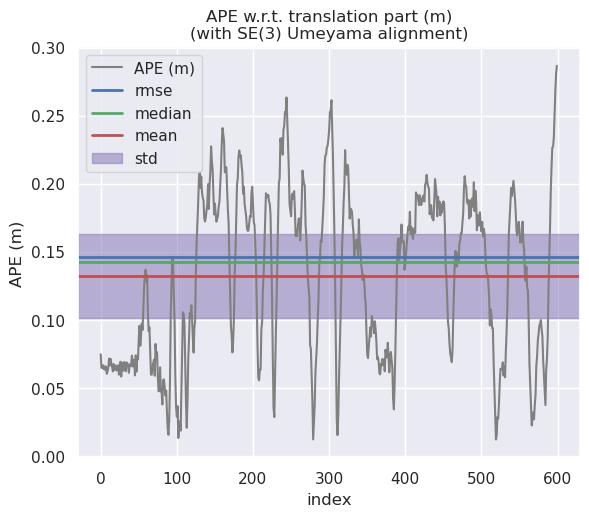
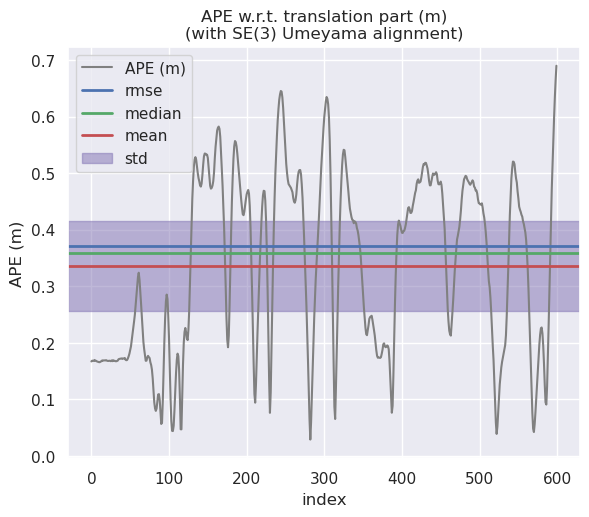
update images

diff --git a/code/enhanced_fast_lio2_ros2/src/fastlio2/launch/fastlio2.launch.py b/code/enhanced_fast_lio2_ros2/src/fastlio2/launch/fastlio2.launch.py
@@ -1,5 +1,5 @@
 import launch
-import launch_ros.actions
+from launch_ros.actions import Node
 from launch.substitutions import PathJoinSubstitution
 from launch_ros.substitutions import FindPackageShare
 
@@ -17,7 +17,7 @@ def generate_launch_description():
 
     return launch.LaunchDescription(
         [
-            launch_ros.actions.Node(
+            Node(
                 package="fastlio2",
                 namespace="fastlio2",
                 executable="lio_node",
@@ -25,7 +25,7 @@ def generate_launch_description():
                 output="screen",
                 parameters=[{"config_path": config_path.perform(launch.LaunchContext())}]
             ),
-            launch_ros.actions.Node(
+            Node(
                 package="rviz2",
                 namespace="fastlio2",
                 executable="rviz2",

diff --git a/code/fast_lio2_ros2/src/fastlio2/launch/lio_launch.py b/code/fast_lio2_ros2/src/fastlio2/launch/lio_launch.py
@@ -1,5 +1,5 @@
 import launch
-import launch_ros.actions
+from launch_ros.actions import Node
 from launch.substitutions import PathJoinSubstitution
 from launch_ros.substitutions import FindPackageShare
 
@@ -17,7 +17,7 @@ def generate_launch_description():
 
     return launch.LaunchDescription(
         [
-            launch_ros.actions.Node(
+            Node(
                 package="fastlio2",
                 namespace="fastlio2",
                 executable="lio_node",
@@ -25,7 +25,7 @@ def generate_launch_description():
                 output="screen",
                 parameters=[{"config_path": config_path.perform(launch.LaunchContext())}]
             ),
-            launch_ros.actions.Node(
+            Node(
                 package="rviz2",
                 namespace="fastlio2",
                 executable="rviz2",

diff --git a/code/enhanced_fast_lio2_ros2/src/fastlio2/launch/fastlio2_pgo.launch.py b/code/enhanced_fast_lio2_ros2/src/fastlio2/launch/fastlio2_pgo.launch.py
@@ -23,7 +23,7 @@ def generate_launch_description():
     # Original FastLIO node
     fastlio_node = Node(
         package='fastlio2',
-        namespace='fastlio2',  # 添加命名空间
+        namespace='fastlio2',
         executable='lio_node',
         name='lio_node',
         parameters=[{"config_path": config_path.perform(launch.LaunchContext())}],
@@ -33,7 +33,7 @@ def generate_launch_description():
     # PGO node
     pgo_node = Node(
         package='fastlio2',
-        namespace='fastlio2',  # 添加命名空间
+        namespace='fastlio2',
         executable='lio_pgo_node',
         name='lio_pgo_node',
         parameters=[{"config_path": pgo_config_path.perform(launch.LaunchContext())}],

diff --git a/code/enhanced_fast_lio2_ros2/src/fastlio2/src/lio_node.cpp b/code/enhanced_fast_lio2_ros2/src/fastlio2/src/lio_node.cpp
@@ -247,7 +247,10 @@ public:
         auto t1 = std::chrono::high_resolution_clock::now();
         m_builder->process(m_package);
         auto t2 = std::chrono::high_resolution_clock::now();
-
+        
+        auto time_used = std::chrono::duration_cast<std::chrono::duration<double>>(t2 - t1).count() * 1000;
+        RCLCPP_INFO(get_logger(), "Time: %.2f ms", time_used);
+        
         if (m_node_config.print_time_cost)
         {
             auto time_used = std::chrono::duration_cast<std::chrono::duration<double>>(t2 - t1).count() * 1000;

diff --git a/code/fast_lio2_ros2/src/fastlio2/src/lio_node.cpp b/code/fast_lio2_ros2/src/fastlio2/src/lio_node.cpp
@@ -247,7 +247,10 @@ public:
         auto t1 = std::chrono::high_resolution_clock::now();
         m_builder->process(m_package);
         auto t2 = std::chrono::high_resolution_clock::now();
-
+        
+        auto time_used = std::chrono::duration_cast<std::chrono::duration<double>>(t2 - t1).count() * 1000;
+        RCLCPP_INFO(get_logger(), "Time: %.2f ms", time_used);
+        
         if (m_node_config.print_time_cost)
         {
             auto time_used = std::chrono::duration_cast<std::chrono::duration<double>>(t2 - t1).count() * 1000;

diff --git a/doc/fast_lio2_ros2.md b/doc/fast_lio2_ros2.md
@@ -104,6 +104,14 @@
 - `ros_bag/2020-09-16-quick-shack` (无人机数据)
 - `100hz_2021-02-05-19-50-54`
 
+|                   | fastlio2_v1 | fastlio2_v2 | fastlio2_v3 |
+| ----------------- | ----------- | ----------- | ----------- |
+| Process Time (ms) | 9.70        | 9.79        | 9.83        |
+| Max               | 0.690       | 0.324       | 0.293       |
+| Mean              | 0.203       | 0.175       | 0.169       |
+| Median            | 0.360       | 0.170       | 0.065       |
+| Std Dev           | 0.159       | 0.140       | 0.132       |
+| RMSE              | 0.201       | 0.171       | 0.165       |
 
 #### 结果图片
 
